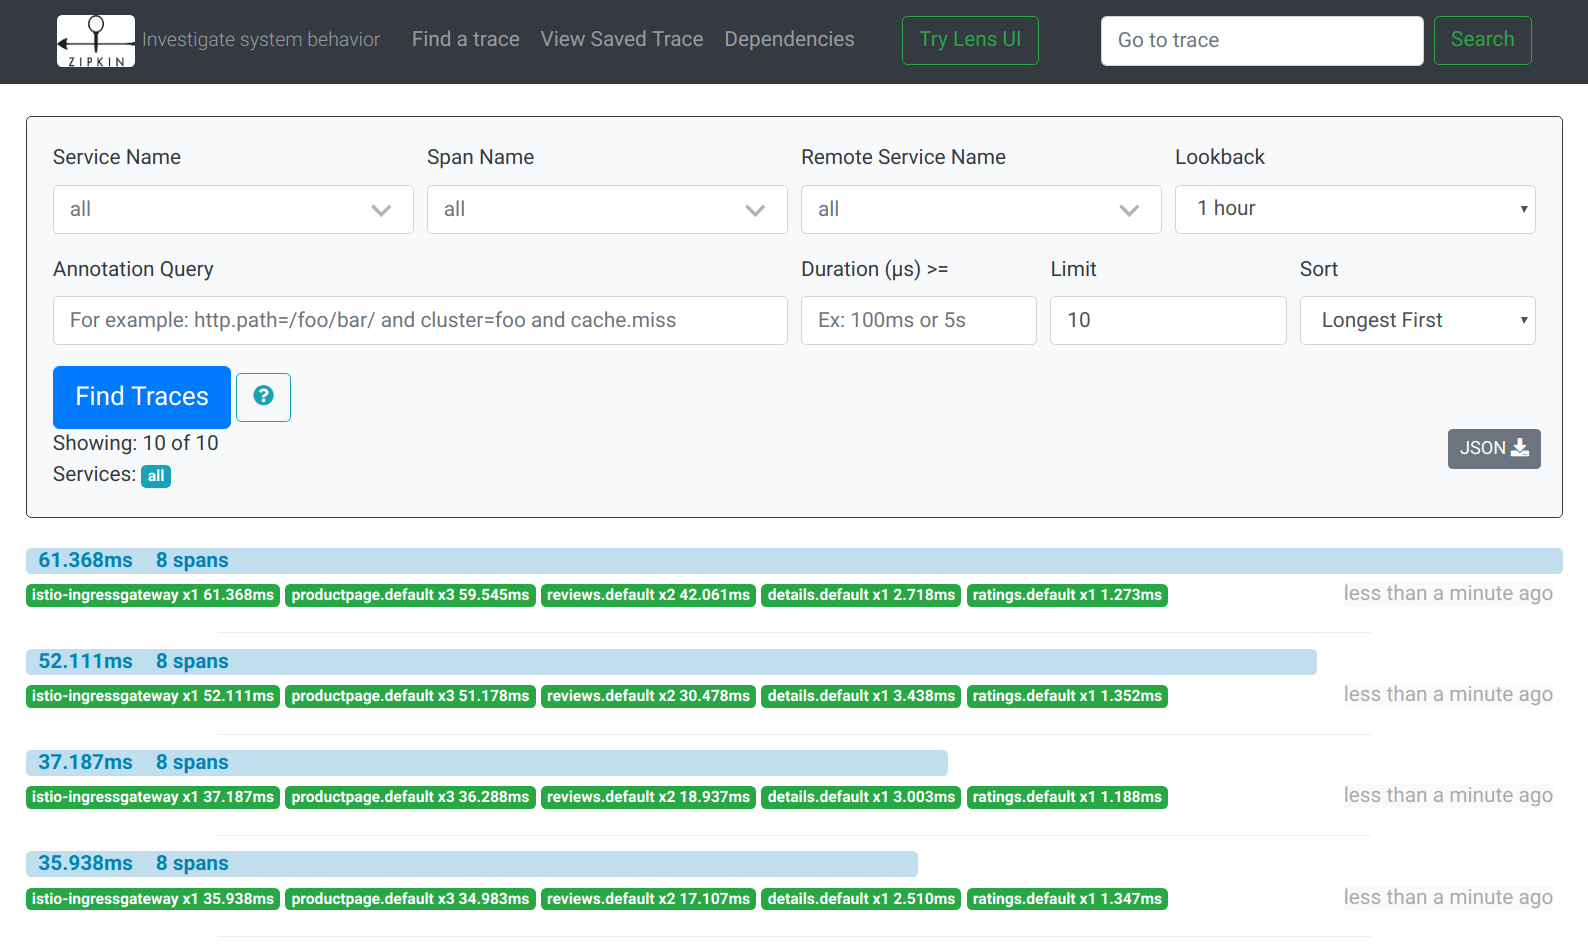
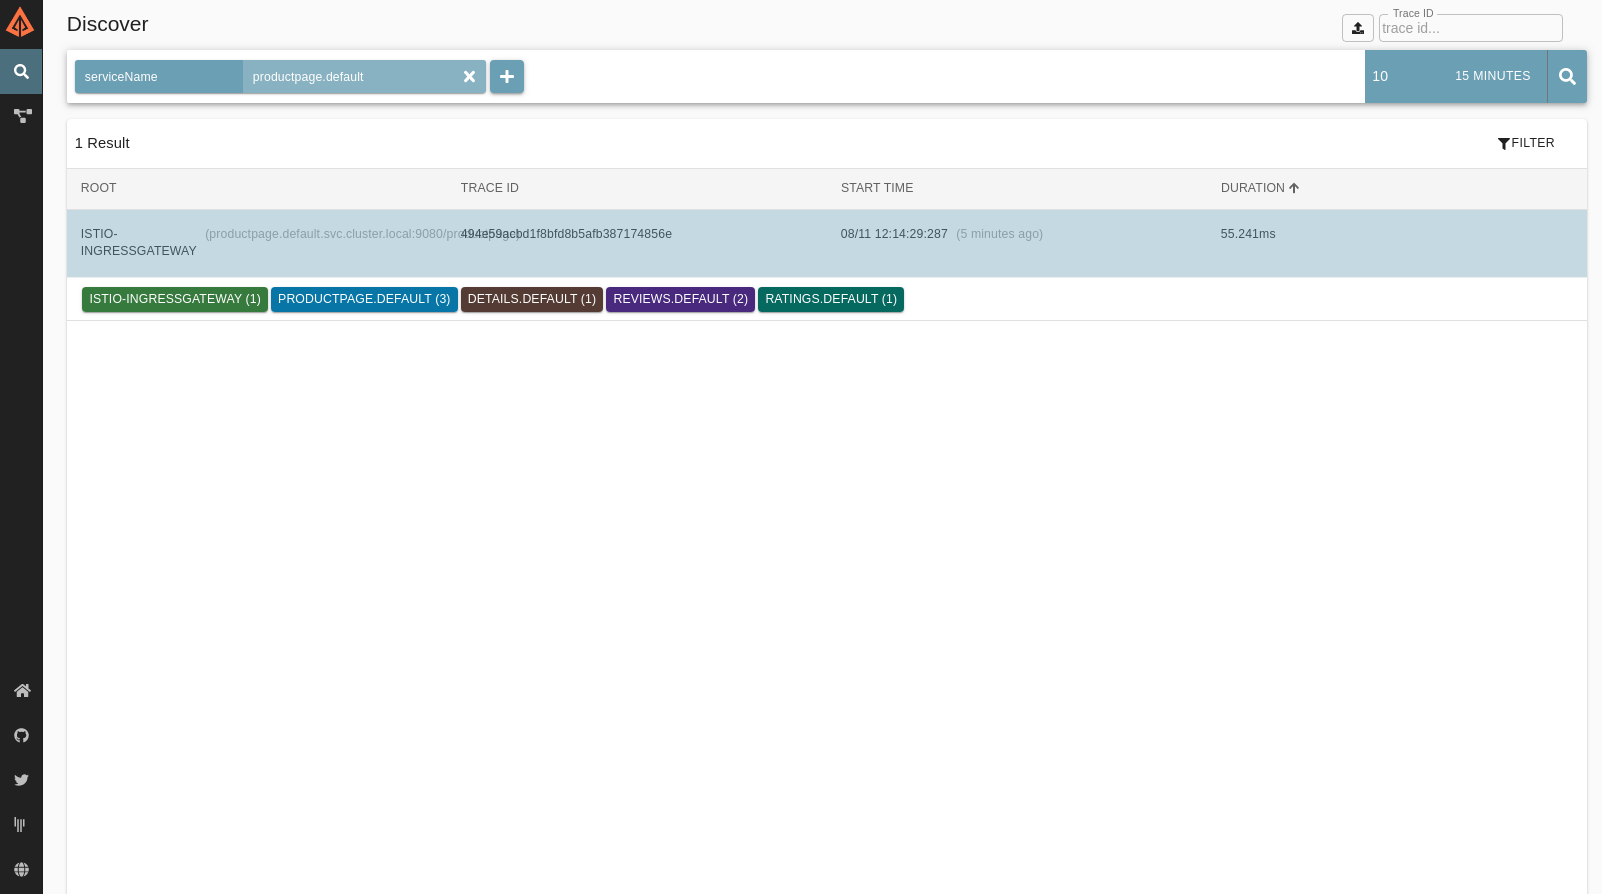
Update zipkin dashboard images

diff --git a/content/en/docs/tasks/observability/distributed-tracing/zipkin/index.md b/content/en/docs/tasks/observability/distributed-tracing/zipkin/index.md
@@ -41,12 +41,11 @@ $ istioctl dashboard zipkin
 
     {{< boilerplate trace-generation >}}
 
-1.  From the top panel, select a service of interest (or 'all') from the **Service Name** drop-down list and click
-    **Find Traces**:
+1.  From the search panel, click on the plus sign. Select `serviceName` from the first dropdown and `productpage.default` from second dropdown and click the search icon:
 
     {{< image link="./istio-tracing-list-zipkin.png" caption="Tracing Dashboard" >}}
 
-1.  Click on the most recent trace at the top to see the details corresponding to the
+1.  Click on the `TRACE ID` to see the details corresponding to the
     latest request to the `/productpage`:
 
     {{< image link="./istio-tracing-details-zipkin.png" caption="Detailed Trace View" >}}
